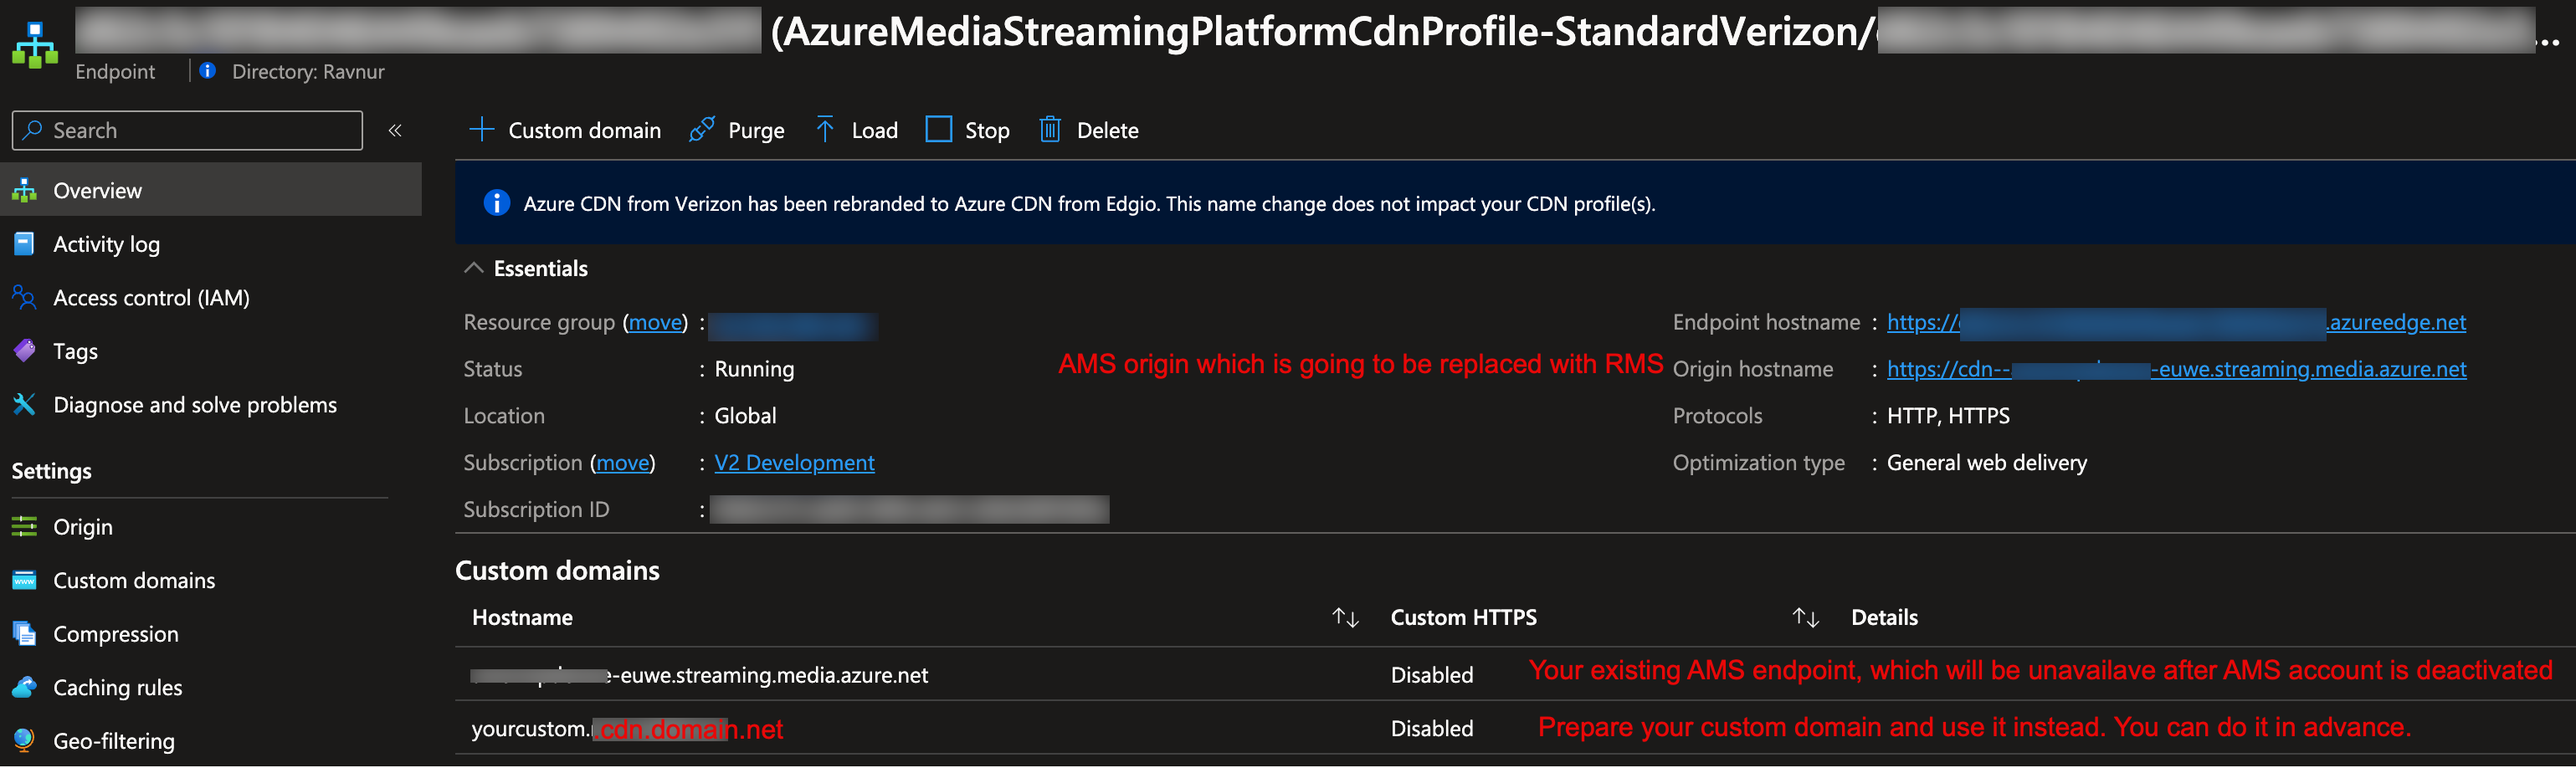
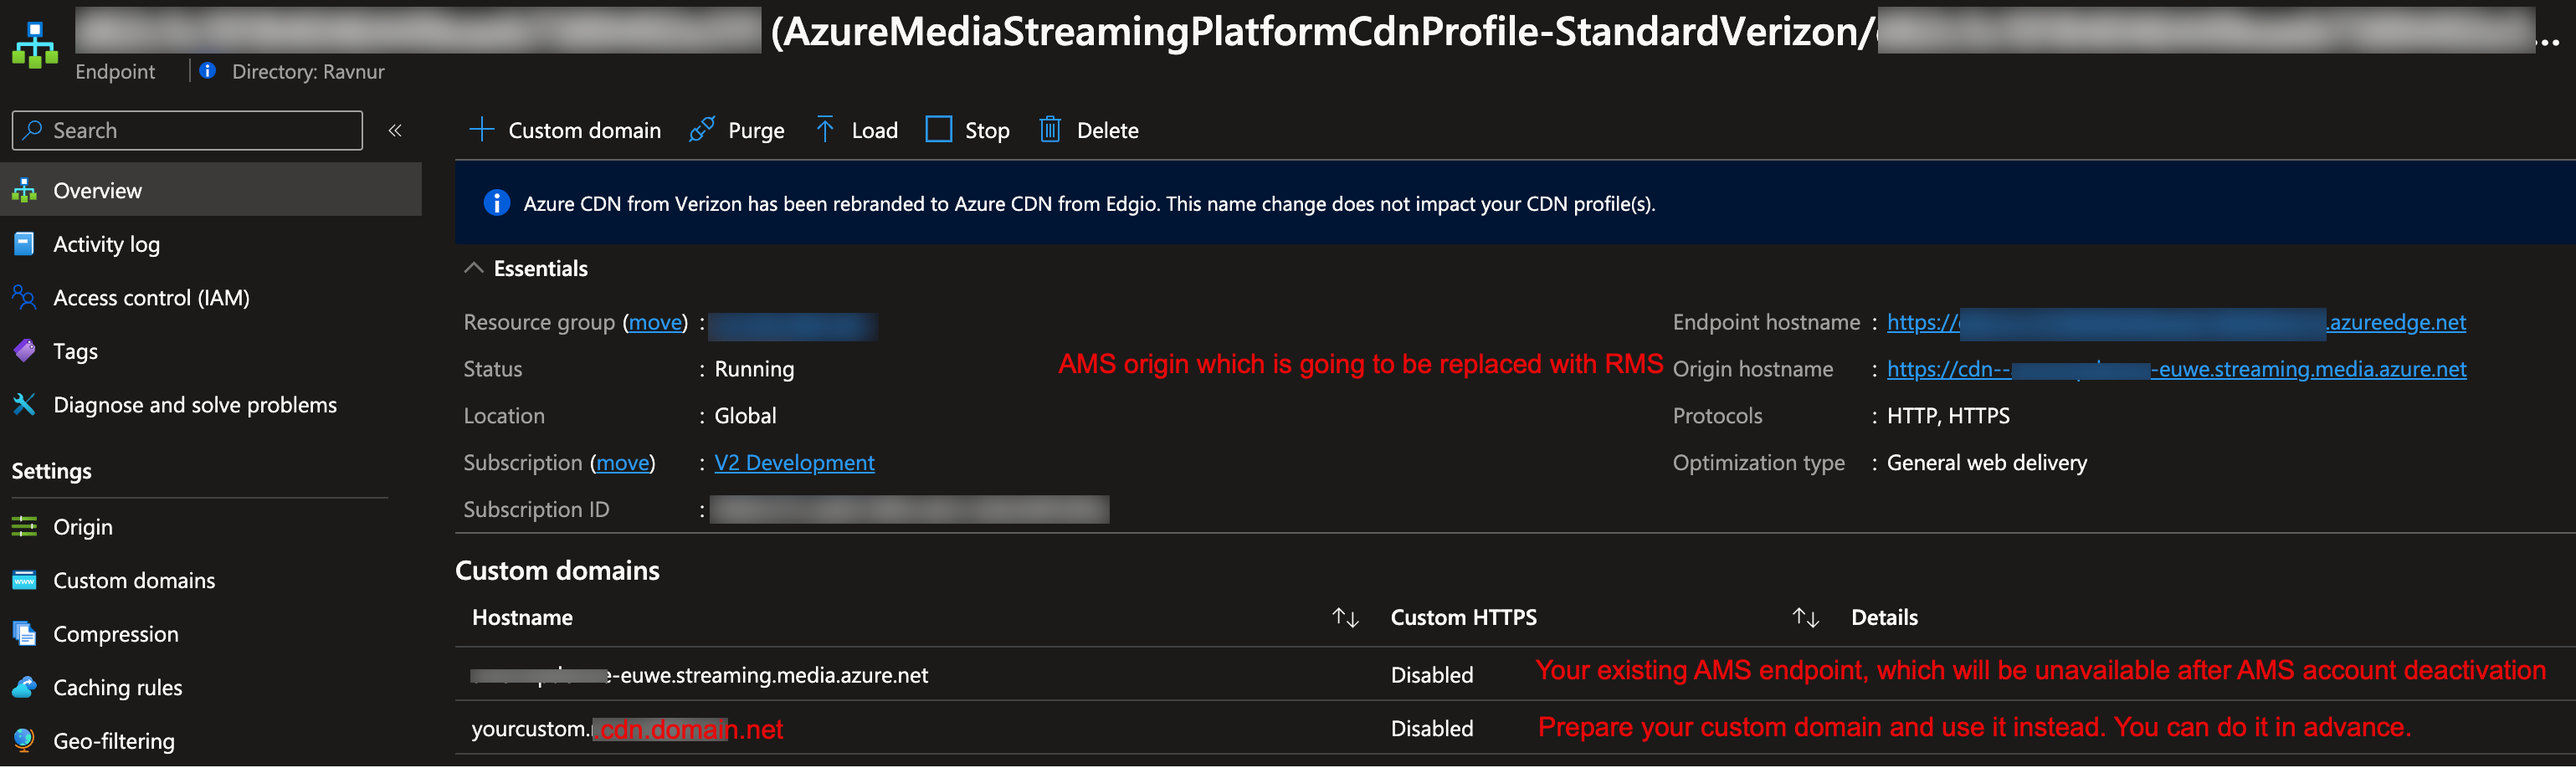
Fixes

Changed region(s): [[0.5926, 0.854, 0.9981, 0.8845]]

diff --git a/docs/app-migration.md b/docs/app-migration.md
@@ -93,7 +93,7 @@ At this point you have your storages registered in RMS and you ensured that your
 
 ### Change CDN domain
 
-AMS streaming domain will be unavailable after AMS account is deactivated. So please prepare your own custom domain for your CDN in advance, [here](https://learn.microsoft.com/en-us/azure/cdn/cdn-map-content-to-custom-domain) Microsoft gives instructions how to do this. After that your CDN endpoint should look like this:
+AMS streaming domain will be unavailable after AMS account deactivation. So please prepare your own custom domain for your CDN in advance, [here](https://learn.microsoft.com/en-us/azure/cdn/cdn-map-content-to-custom-domain) Microsoft gives instructions how to do this. After that your CDN endpoint should look like this:
 ![CDN before RMS migration](img/cdn-before-rms-migration.png)
 Also it means that all your existing streaming links should not use AMS streaming endpoint and use your own custom domain instead.
 
